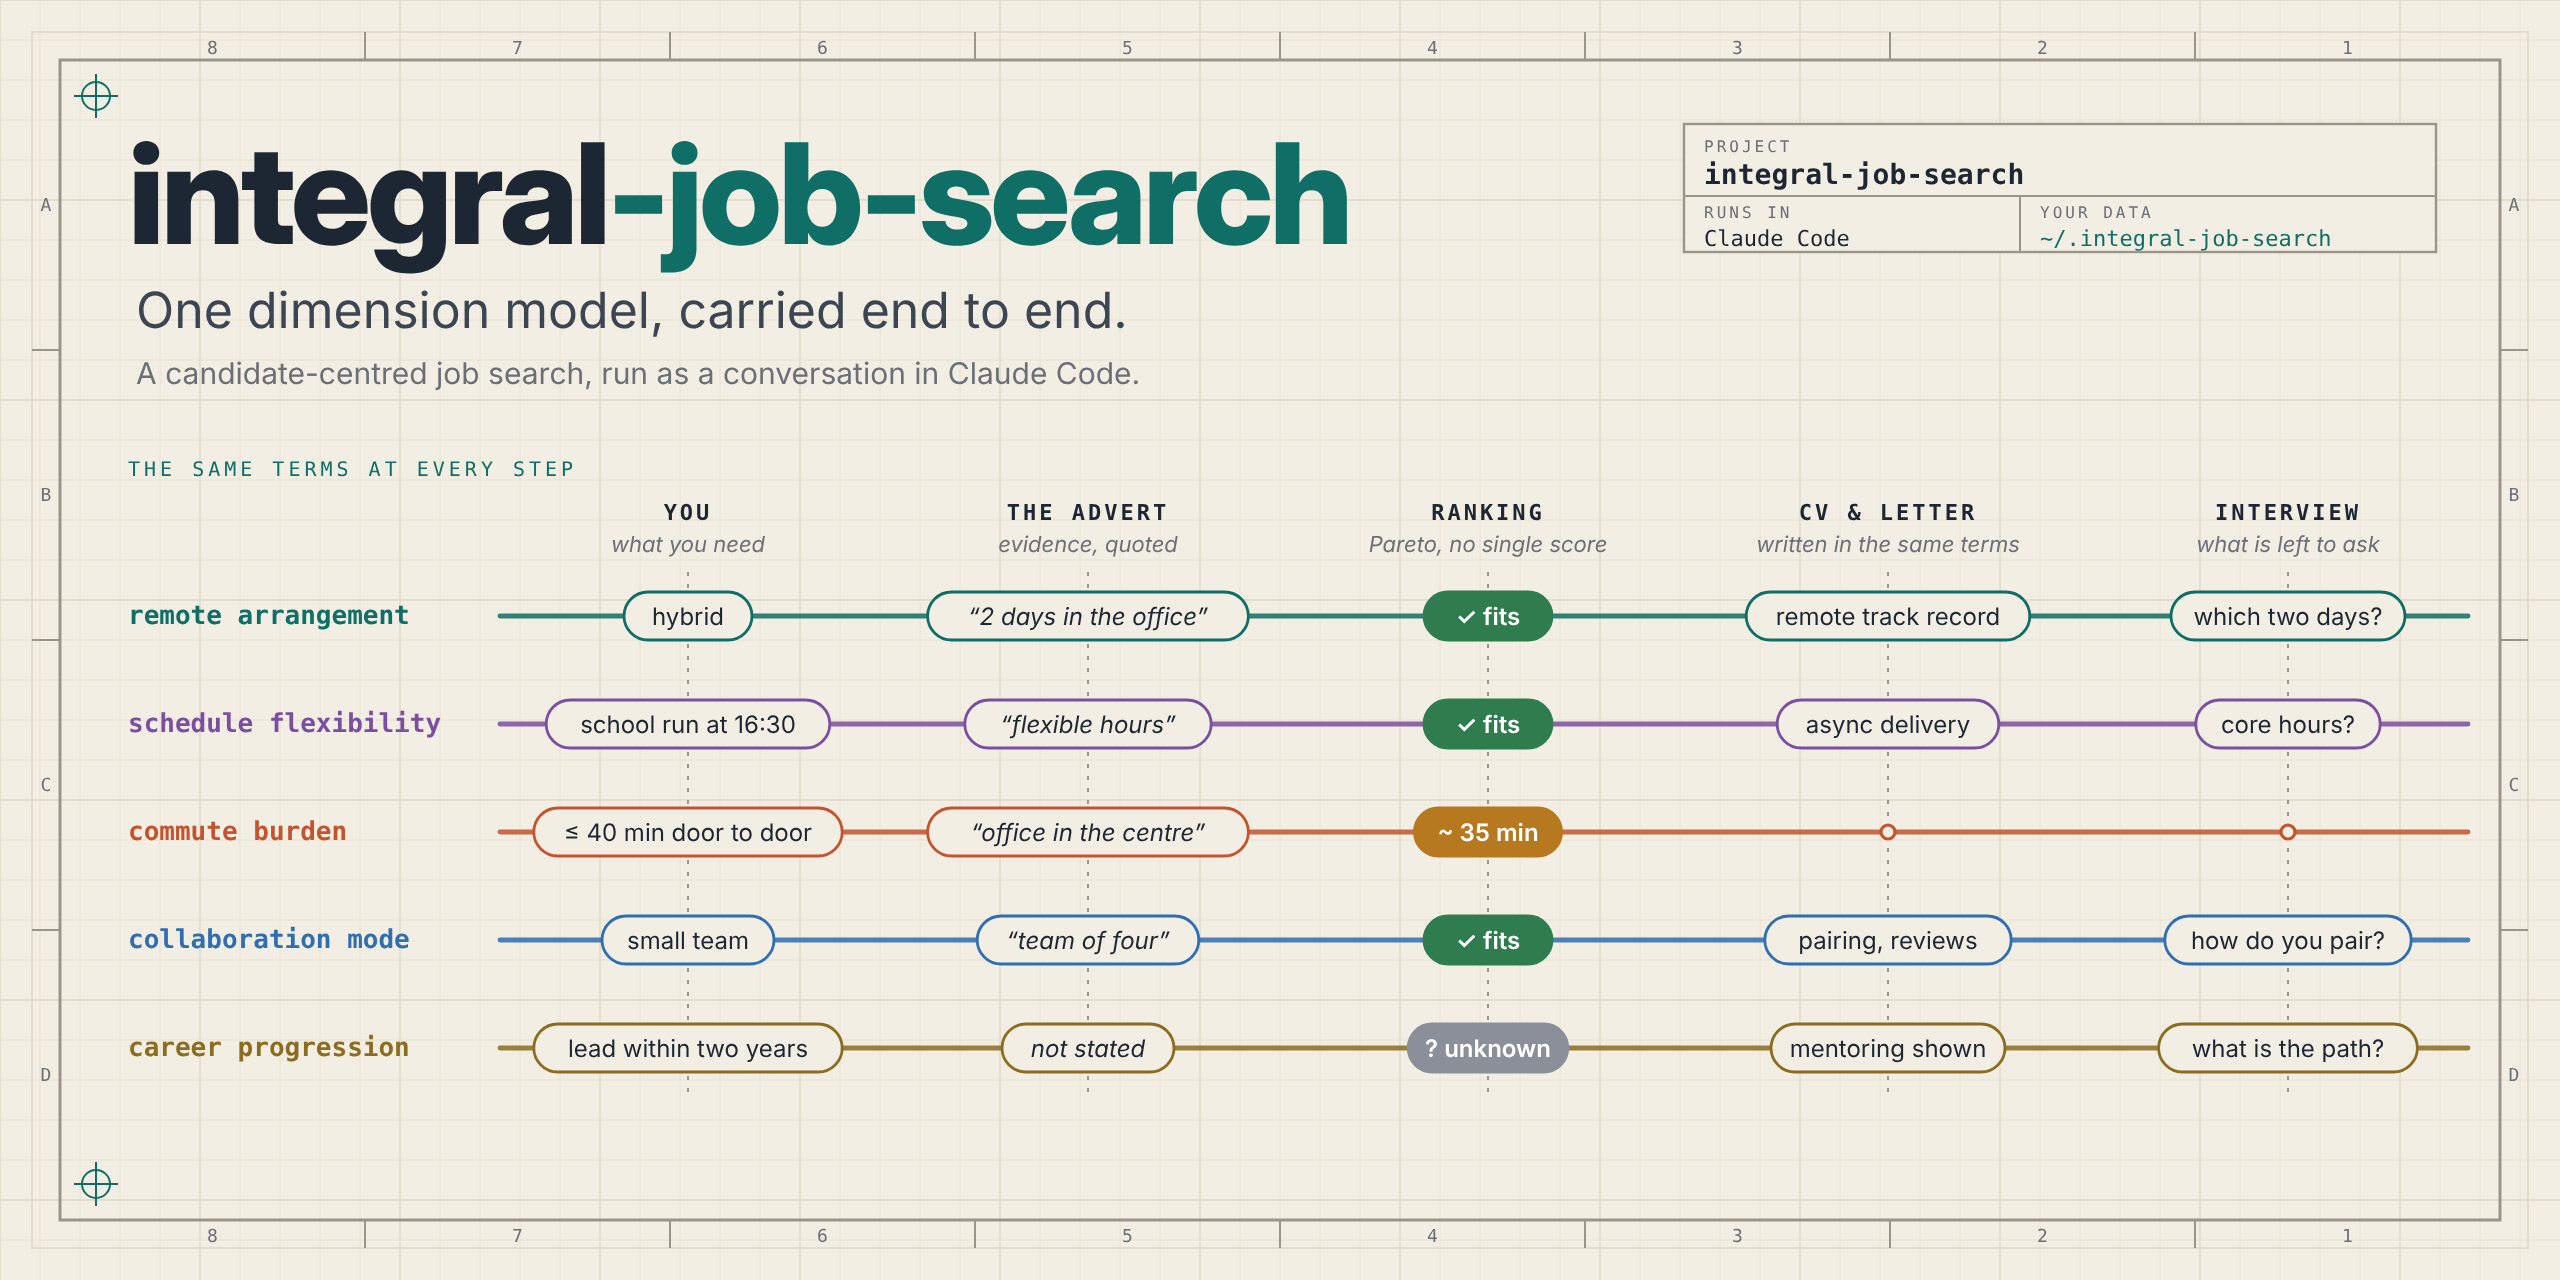
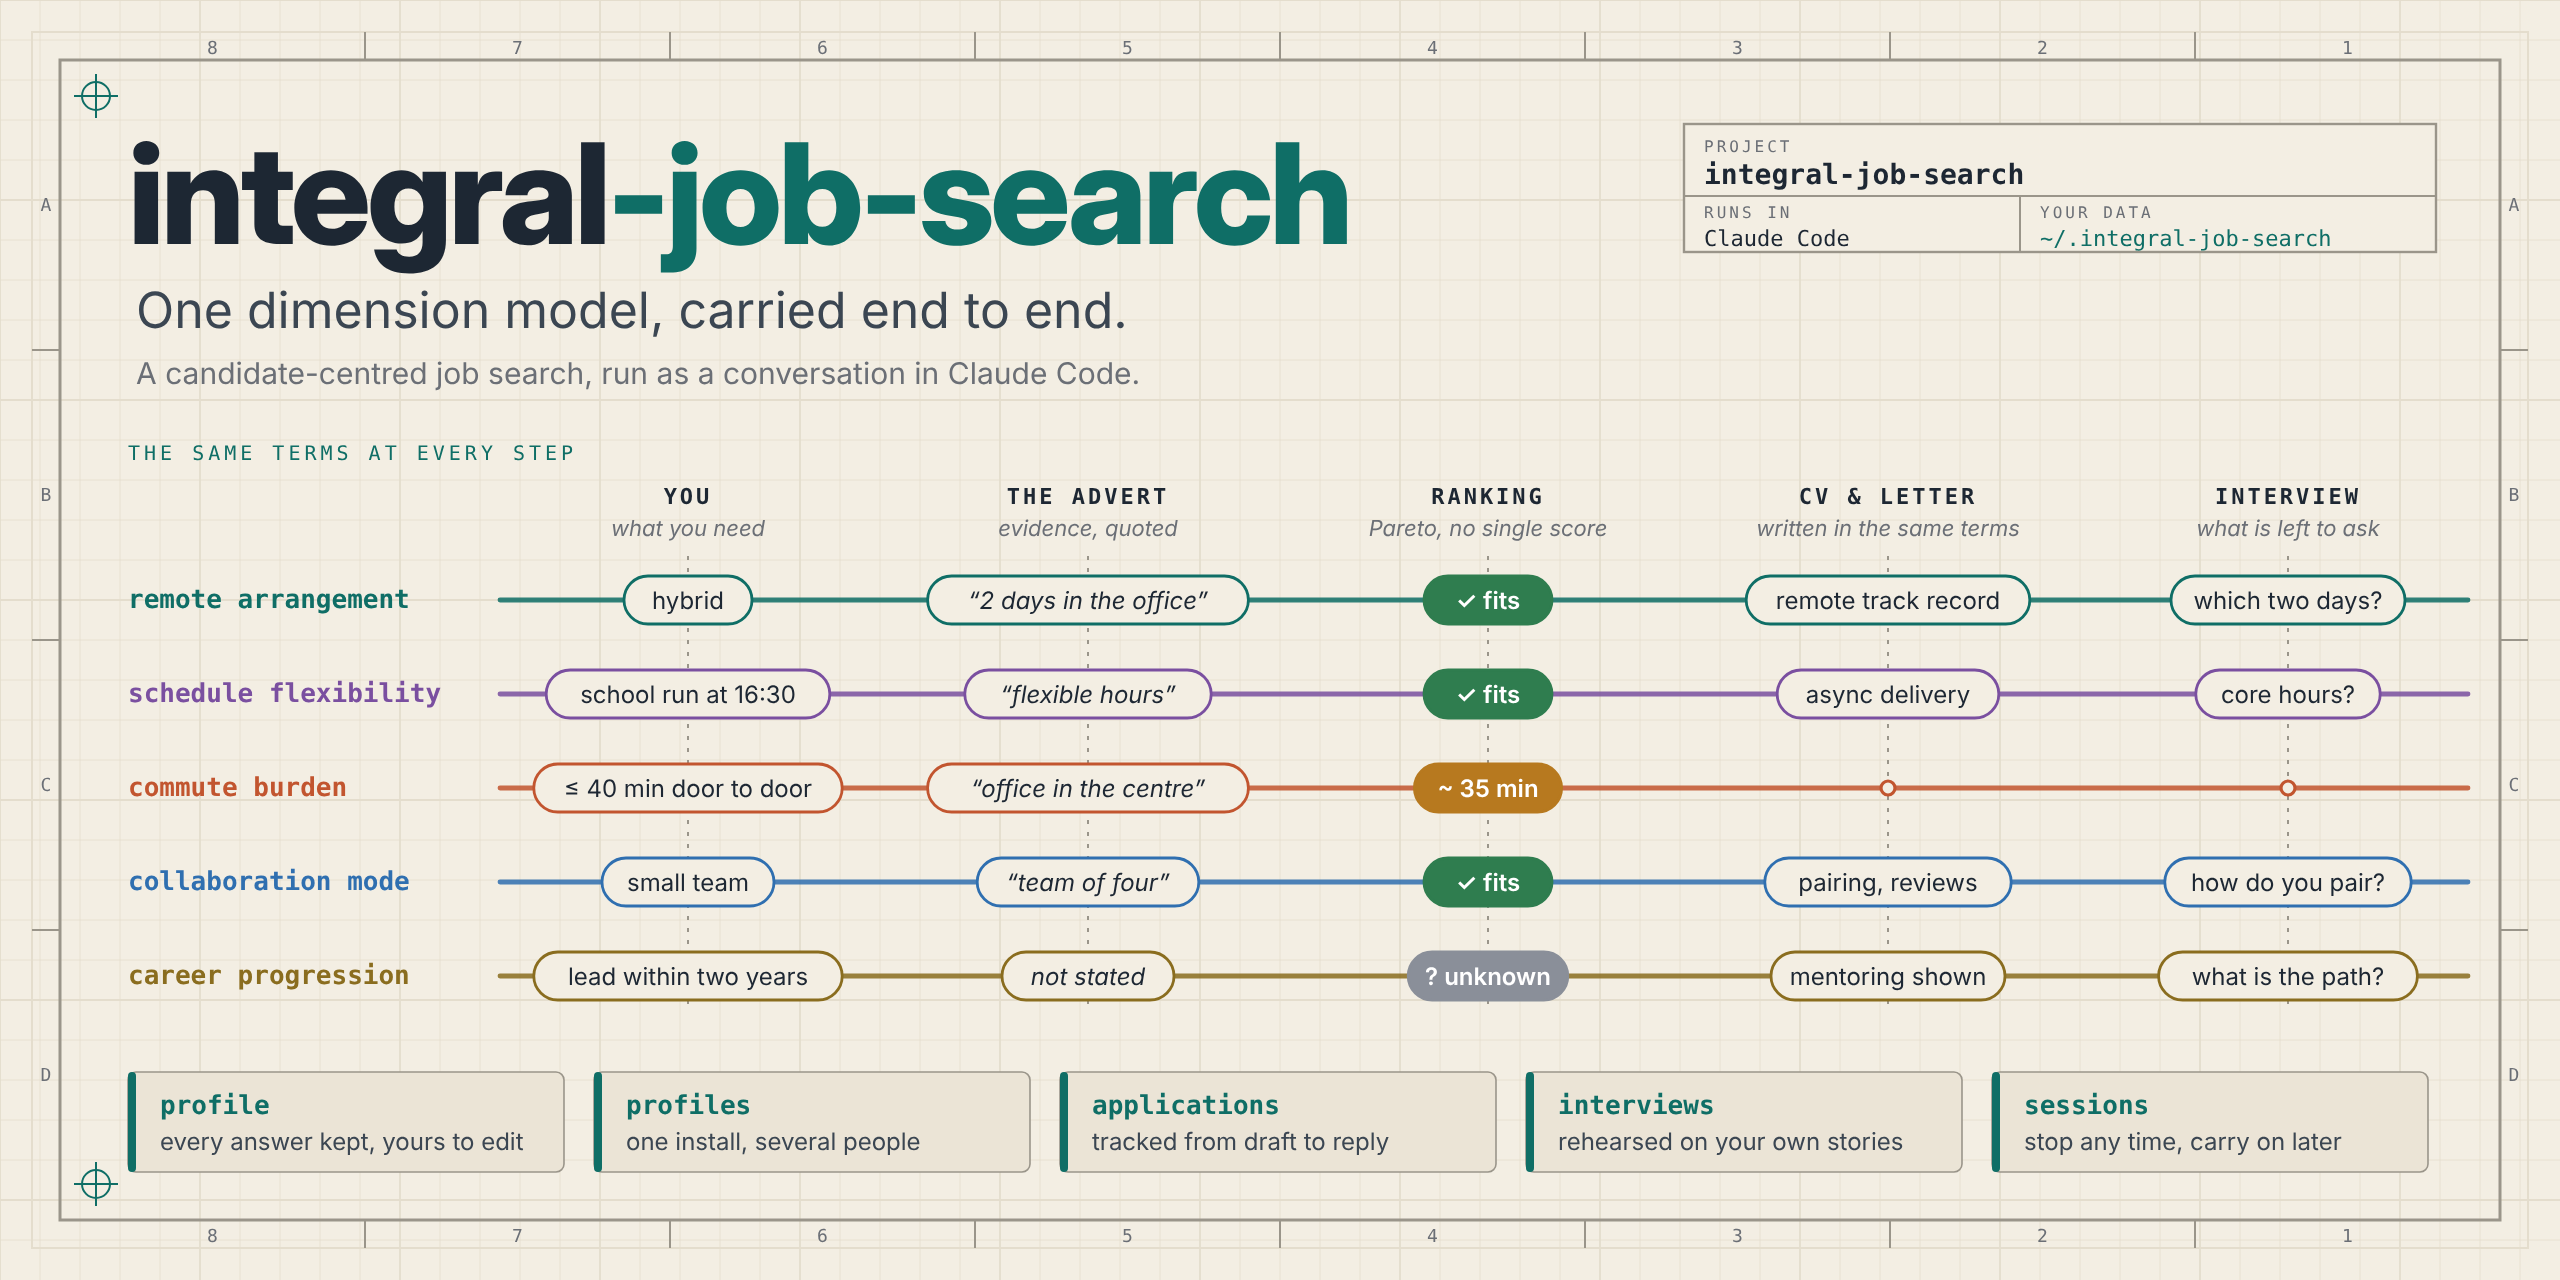
docs(hero): add the features around the figure
Profile kept from the conversation, several profiles per install, application
tracking, interview rehearsal and resumable sessions, as a strip under the
dimension figure.

Claude-Session: https://claude.ai/code/session_01QwsxTccJpZ6TMCY29idEh5

diff --git a/tools/hero.py b/tools/hero.py
@@ -203,7 +203,7 @@ def title_block() -> list[str]:
 def figure() -> list[str]:
     left, label_w = 64, 190
     cols = [left + label_w + 90 + i * 200 for i in range(len(STAGES))]
-    top, row_h = 290, 54
+    top, row_h = 282, 47
     out = [
         text(
             left,
@@ -267,8 +267,33 @@ def chip_at(cx: float, y: float, chip: str, colour: str, *, rank: bool, quote: b
     return out
 
 
+#: What the conversation keeps around the figure: the parts a search needs between steps.
+FEATURES = [
+    ("profile", "every answer kept, yours to edit"),
+    ("profiles", "one install, several people"),
+    ("applications", "tracked from draft to reply"),
+    ("interviews", "rehearsed on your own stories"),
+    ("sessions", "stop any time, carry on later"),
+]
+
+
+def features() -> list[str]:
+    x0, y, w, h, gap = 64, 536, 218, 50, 15
+    out = []
+    for i, (name, sub) in enumerate(FEATURES):
+        x = x0 + i * (w + gap)
+        out += [
+            f'<rect x="{x}" y="{y}" width="{w}" height="{h}" rx="4" fill="#ebe4d6" '
+            f'stroke="{FRAME}" stroke-width="0.8"/>',
+            f'<rect x="{x}" y="{y}" width="4" height="{h}" rx="2" fill="{TEAL}"/>',
+            text(x + 16, y + 21, name, size=13, weight=700, family=MONO, fill=TEAL),
+            text(x + 16, y + 39, sub, size=12, fill="#3b4652"),
+        ]
+    return out
+
+
 def svg() -> str:
-    parts = sheet() + wordmark() + title_block() + figure()
+    parts = sheet() + wordmark() + title_block() + figure() + features()
     body = "\n  ".join(parts)
     return (
         f'<svg xmlns="http://www.w3.org/2000/svg" width="{W}" height="{H}" '
